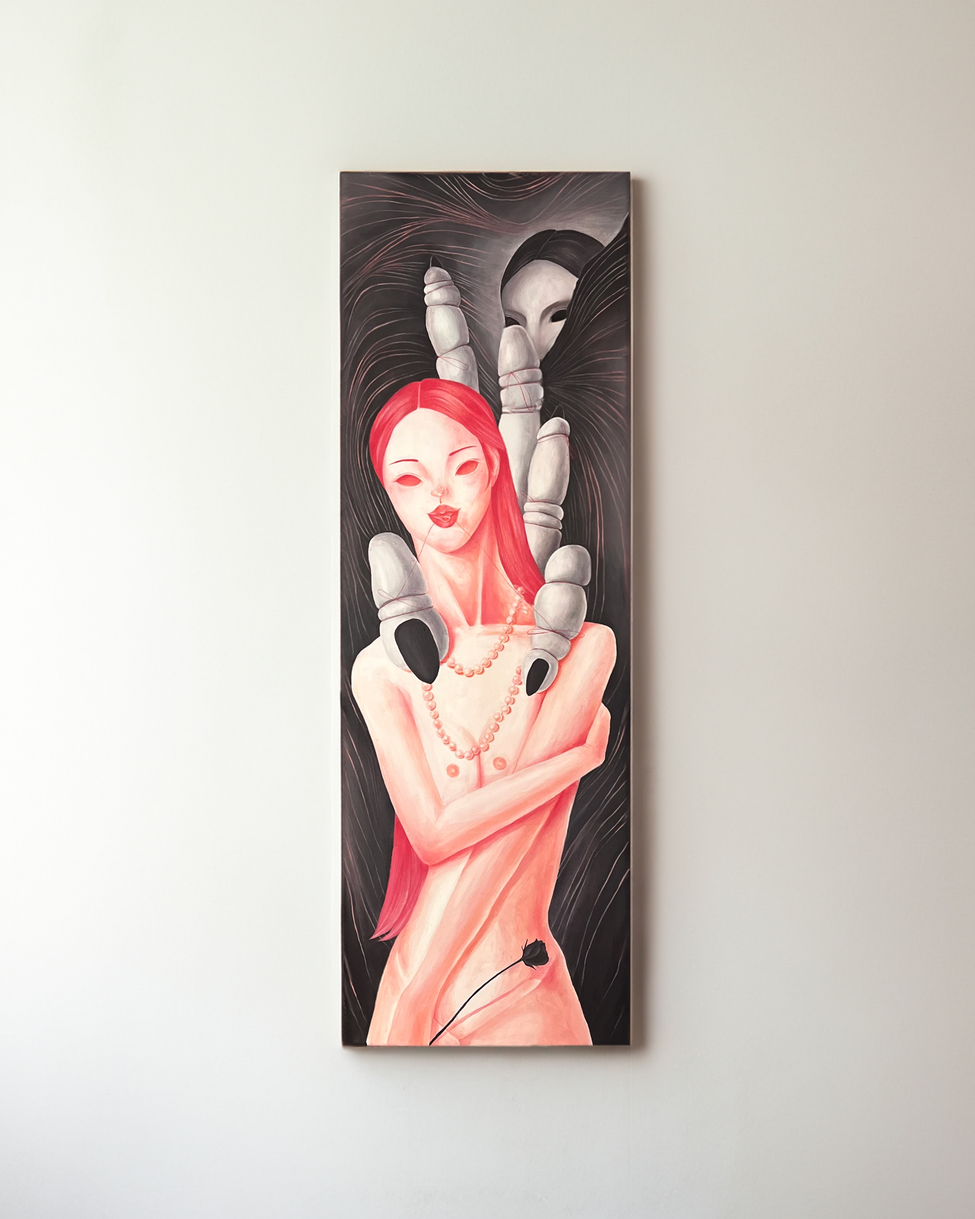
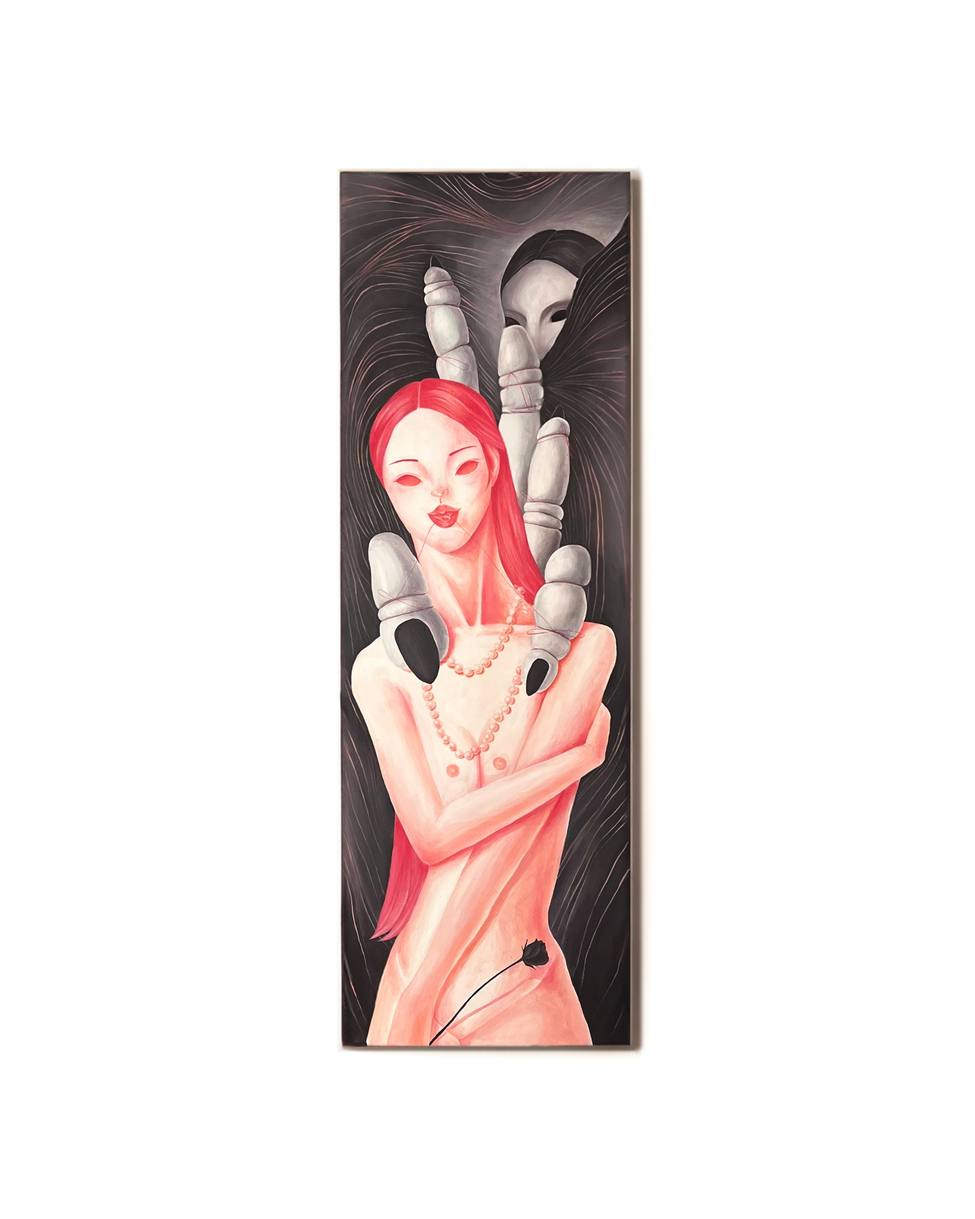
photos

diff --git a/paintings.html b/paintings.html
@@ -73,12 +73,25 @@
       
       <div class="all-gallery">
         <div class="artwork-block">
+          <img  src="/imgs/paintings/hugmesaveme-main.jpg" alt="Thumbnails 1">
+            <div class="artwork-des">
+              <div class="title-t"></div>
+              <div class="title-t"> Hug Me Save Me
+                <div class="title-t-sub">2025</div>
+                
+              </div>
+              
+              <a href=""><div class="artwork-more">+</div></a>
+          </div>
+        </div>
+
+        <div class="artwork-block">
           <img  src="/imgs/paintings/2 a.m. Pink.jpg" alt="Thumbnails 1">
             <div class="artwork-des">
               <div class="title-t"></div>
               <div class="title-t"> 2 a.m. Pink
                 <div class="title-t-sub">2024</div>
-                <!--<b>4000 euro</b> -->
+                
               </div>
               
               <a href="artwork-popup-2am.html"><div class="artwork-more">+</div></a>
